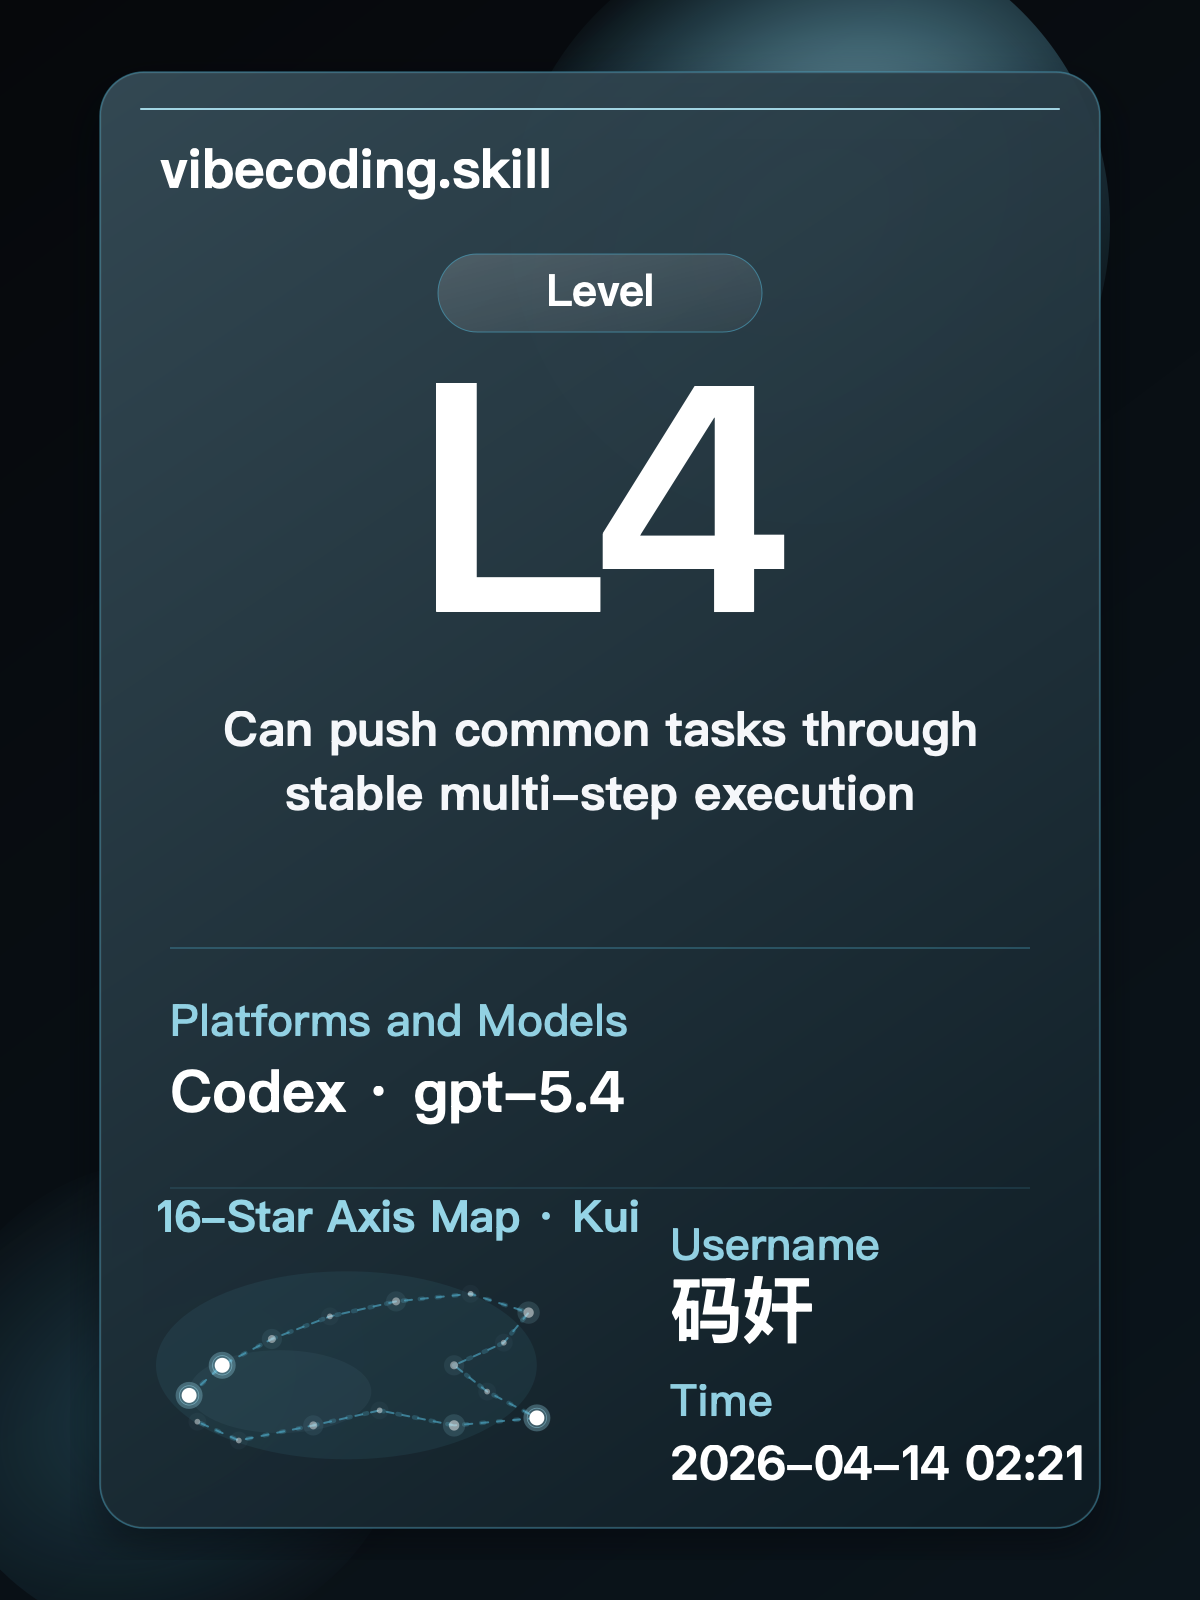
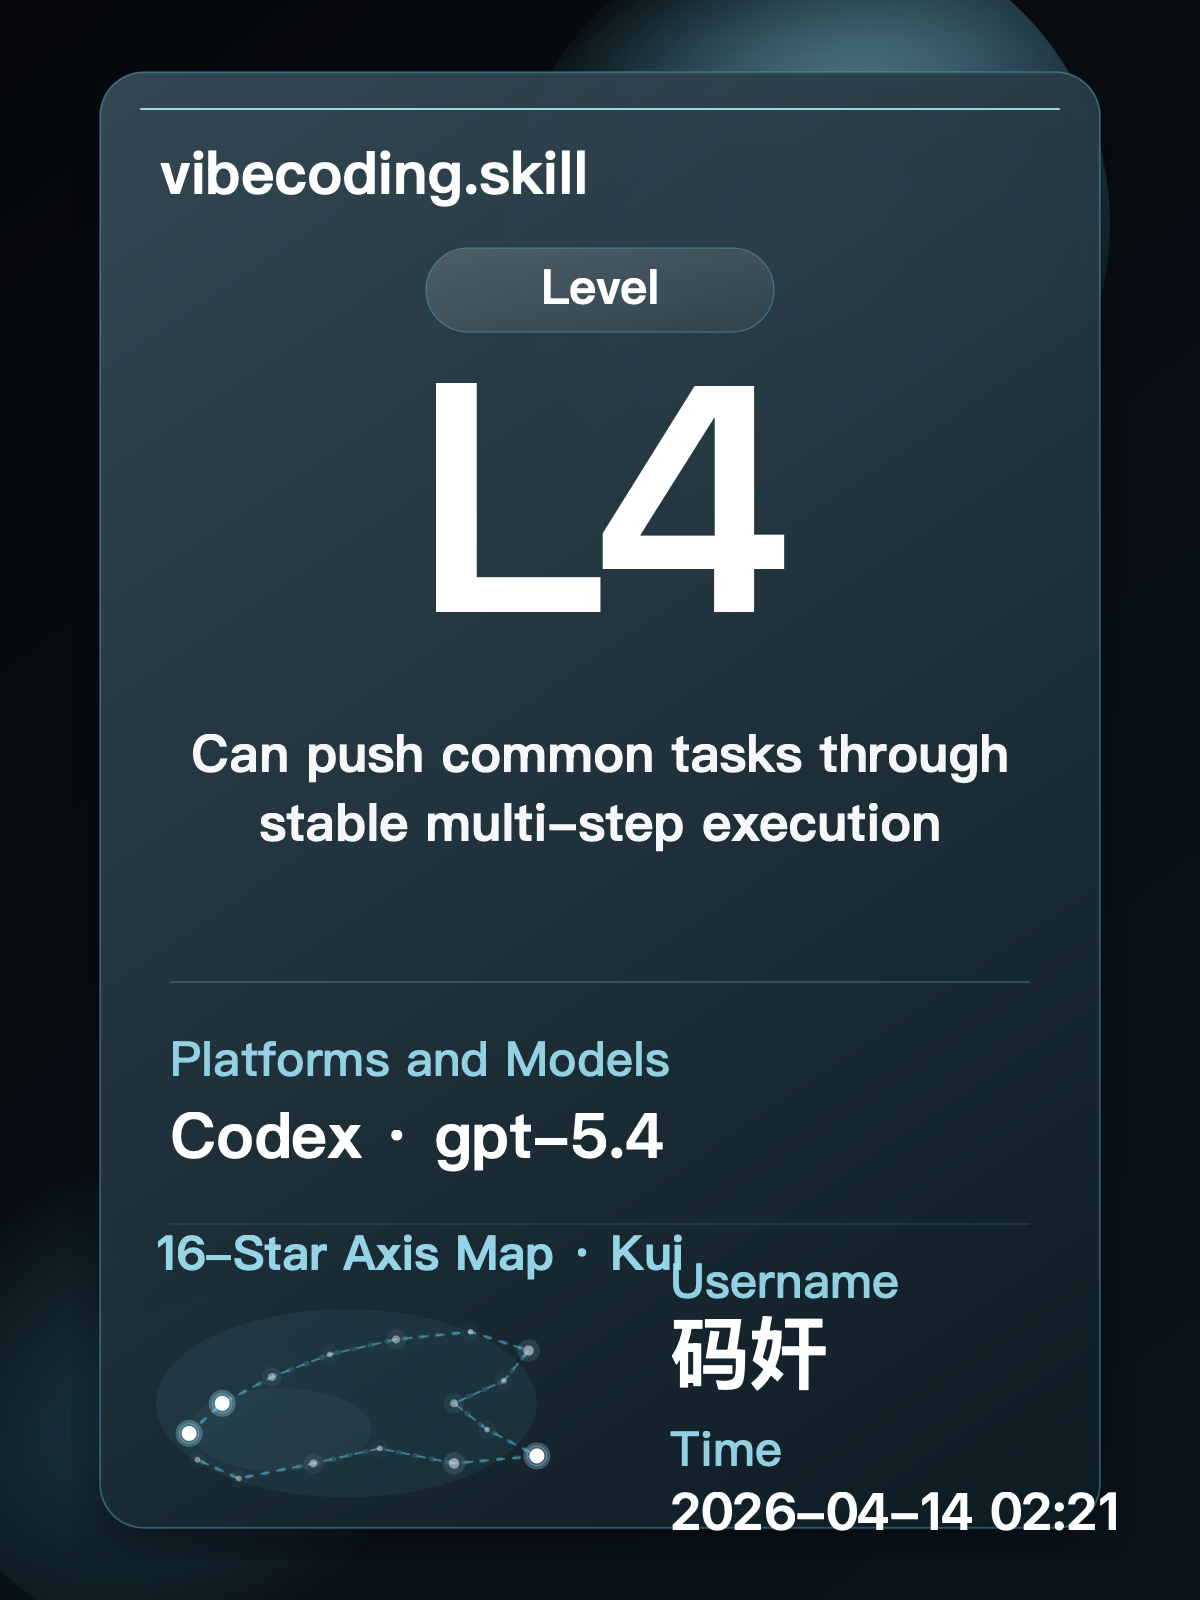
refine card typography scale

diff --git a/vibecoding_skill/cards.py b/vibecoding_skill/cards.py
@@ -157,7 +157,15 @@ def render_vibecoding_card(payload: dict[str, object], *, style: str = "default"
     data = build_card_data(payload, style=style, locale=locale)
     palette = get_luogu_level_palette(data.palette_level)
     summary_lines = _wrap_text(data.summary, max_units=18.5, limit=2)
-    summary_y = 746 if len(summary_lines) > 1 else 778
+    summary_y = 772 if len(summary_lines) > 1 else 804
+
+    title_size = 59
+    section_label_size = 48
+    summary_size = 52
+    summary_line_height = 69
+    primary_value_size = 63
+    username_size = 79
+    time_value_size = 52
 
     return f"""<svg width="1200" height="1600" viewBox="0 0 1200 1600" fill="none" xmlns="http://www.w3.org/2000/svg">
   <defs>
@@ -205,29 +213,29 @@ def render_vibecoding_card(payload: dict[str, object], *, style: str = "default"
   </g>
 
   <rect x="140" y="108" width="920" height="2" rx="1" fill="{_escape(_mix_hex(palette['glow'], '#FFFFFF', 0.20))}" fill-opacity="0.88"/>
-  <text x="160" y="188" fill="#FFFFFF" font-size="54" font-family="{_display_font()}" font-weight="700">{_escape(data.title)}</text>
+  <text x="160" y="194" fill="#FFFFFF" font-size="{title_size}" font-family="{_display_font()}" font-weight="700">{_escape(data.title)}</text>
 
   <g>
-    <rect x="438" y="254" width="324" height="78" rx="39" fill="url(#glass)" stroke="{_escape(_with_alpha(palette['line'], 0.60))}"/>
-    <text x="600" y="306" fill="#FFFFFF" font-size="44" text-anchor="middle" font-family="{_body_font()}" font-weight="600">{_escape(data.level_label)}</text>
+    <rect x="426" y="248" width="348" height="84" rx="42" fill="url(#glass)" stroke="{_escape(_with_alpha(palette['line'], 0.60))}"/>
+    <text x="600" y="304" fill="#FFFFFF" font-size="{section_label_size}" text-anchor="middle" font-family="{_body_font()}" font-weight="600">{_escape(data.level_label)}</text>
   </g>
 
   <text x="600" y="612" fill="#FFFFFF" font-size="320" text-anchor="middle" font-family="{_display_font()}" font-weight="700" letter-spacing="-10">{_escape(data.level)}</text>
-  {_text_lines(summary_lines, x=600, y=summary_y, font_size=48, line_height=64, fill="#F5F7FA", anchor="middle", family=_body_font(), weight="600")}
+  {_text_lines(summary_lines, x=600, y=summary_y, font_size=summary_size, line_height=summary_line_height, fill="#F5F7FA", anchor="middle", family=_body_font(), weight="600")}
 
-  <line x1="170" y1="948" x2="1030" y2="948" stroke="{_escape(_with_alpha(palette['line'], 0.42))}" stroke-width="1.5"/>
+  <line x1="170" y1="982" x2="1030" y2="982" stroke="{_escape(_with_alpha(palette['line'], 0.42))}" stroke-width="1.5"/>
 
-  <text x="170" y="1036" fill="{_escape(_with_alpha(palette['glow'], 0.90))}" font-size="44" font-family="{_body_font()}" font-weight="500">{_escape(data.platform_model_label)}</text>
-  <text x="170" y="1112" fill="#FFFFFF" font-size="58" font-family="{_display_font()}" font-weight="650">{_escape(data.platform_model)}</text>
+  <text x="170" y="1076" fill="{_escape(_with_alpha(palette['glow'], 0.90))}" font-size="{section_label_size}" font-family="{_body_font()}" font-weight="500">{_escape(data.platform_model_label)}</text>
+  <text x="170" y="1158" fill="#FFFFFF" font-size="{primary_value_size}" font-family="{_display_font()}" font-weight="650">{_escape(data.platform_model)}</text>
 
-  <line x1="170" y1="1188" x2="1030" y2="1188" stroke="{_escape(_with_alpha(palette['line'], 0.28))}"/>
+  <line x1="170" y1="1224" x2="1030" y2="1224" stroke="{_escape(_with_alpha(palette['line'], 0.28))}"/>
 
   {_render_constellation(data, palette)}
 
-  <text x="670" y="1260" fill="{_escape(_with_alpha(palette['glow'], 0.90))}" font-size="44" font-family="{_body_font()}" font-weight="500">{_escape(data.user_label)}</text>
-  <text x="670" y="1336" fill="#FFFFFF" font-size="72" font-family="{_display_font()}" font-weight="650">{_escape(data.user_name)}</text>
-  <text x="670" y="1416" fill="{_escape(_with_alpha(palette['glow'], 0.90))}" font-size="44" font-family="{_body_font()}" font-weight="500">{_escape(data.time_label)}</text>
-  <text x="670" y="1480" fill="#FFFFFF" font-size="48" font-family="{_body_font()}" font-weight="600">{_escape(data.generated_at)}</text>
+  <text x="670" y="1298" fill="{_escape(_with_alpha(palette['glow'], 0.90))}" font-size="{section_label_size}" font-family="{_body_font()}" font-weight="500">{_escape(data.user_label)}</text>
+  <text x="670" y="1382" fill="#FFFFFF" font-size="{username_size}" font-family="{_display_font()}" font-weight="650">{_escape(data.user_name)}</text>
+  <text x="670" y="1466" fill="{_escape(_with_alpha(palette['glow'], 0.90))}" font-size="{section_label_size}" font-family="{_body_font()}" font-weight="500">{_escape(data.time_label)}</text>
+  <text x="670" y="1530" fill="#FFFFFF" font-size="{time_value_size}" font-family="{_body_font()}" font-weight="600">{_escape(data.generated_at)}</text>
 
 </svg>
 """
@@ -298,7 +306,7 @@ def _text_lines(
 
 def _render_constellation(data: CardData, palette: dict[str, str]) -> str:
     left = 156
-    top = 1260
+    top = 1298
     width = 414
     height = 188
     path_points = []
@@ -324,7 +332,7 @@ def _render_constellation(data: CardData, palette: dict[str, str]) -> str:
             f'<circle cx="{x:.1f}" cy="{y:.1f}" r="{radius:.1f}" fill="{_escape(_with_alpha("#FFFFFF", max(0.42, opacity)))}"/>'
         )
     return (
-        f'<text x="{left}" y="1232" fill="{_escape(_with_alpha(palette["glow"], 0.92))}" font-size="44" font-family="{_body_font()}" font-weight="600">{_escape(data.constellation_label)}</text>'
+        f'<text x="{left}" y="1270" fill="{_escape(_with_alpha(palette["glow"], 0.92))}" font-size="48" font-family="{_body_font()}" font-weight="600">{_escape(data.constellation_label)}</text>'
         f'<ellipse cx="{left + width * 0.46:.1f}" cy="{top + height * 0.56:.1f}" rx="{width * 0.46:.1f}" ry="{height * 0.50:.1f}" fill="{_escape(_with_alpha(palette["base"], 0.08))}"/>'
         f'<ellipse cx="{left + width * 0.30:.1f}" cy="{top + height * 0.70:.1f}" rx="{width * 0.22:.1f}" ry="{height * 0.22:.1f}" fill="{_escape(_with_alpha(palette["glow"], 0.05))}"/>'
         f'<polyline points="{" ".join(path_points)}" fill="none" stroke="{_escape(_with_alpha(palette["base"], 0.22))}" stroke-width="4.5" stroke-linecap="round" stroke-linejoin="round" stroke-dasharray="3 14"/>'
